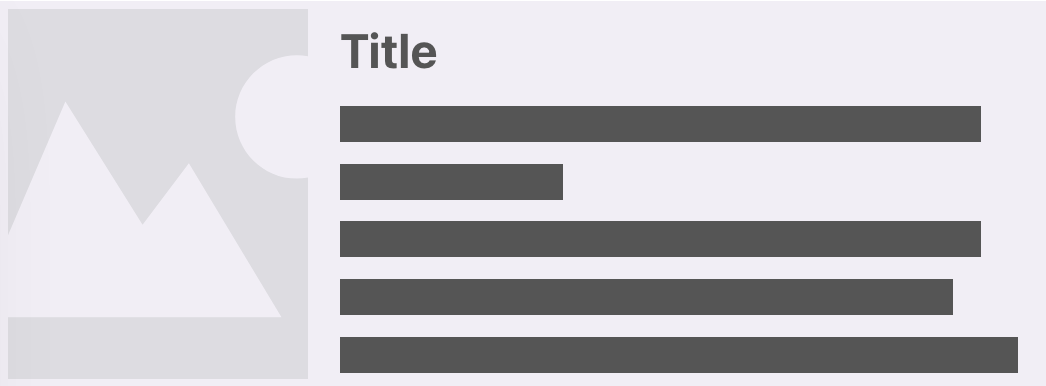
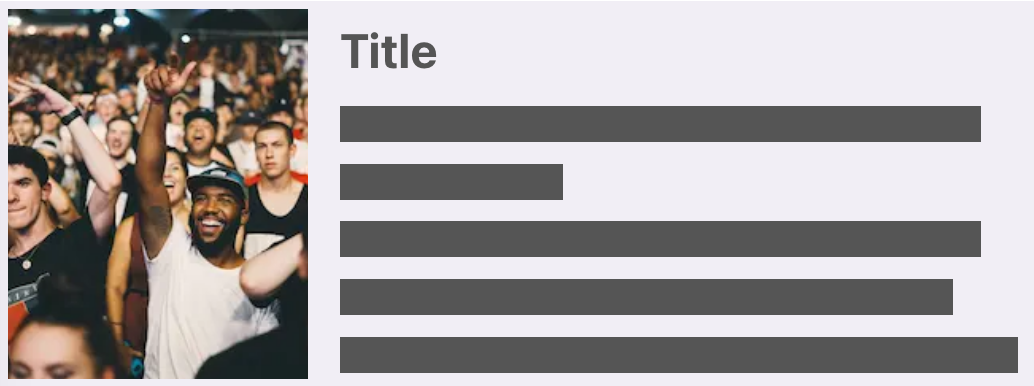
add help to defensive exes

diff --git a/src/content/defensive/02.md b/src/content/defensive/02.md
@@ -13,12 +13,12 @@ startingCSS: |
     gap: 1rem;
 
     img {
-      min-width: 150px;
+      max-width: 150px;
     }
   }
 startingHTML: |
   <div class="card">
-    <img src="/assets/svg/bg-image.svg" alt="">
+    <img src="/assets/imgs/defensive-2.webp" alt="">
     <div class="content">
       <h2>Title</h2>
       <p>Lorem ipsum dolor sit amet, consectetur adipiscing elit.</p>
